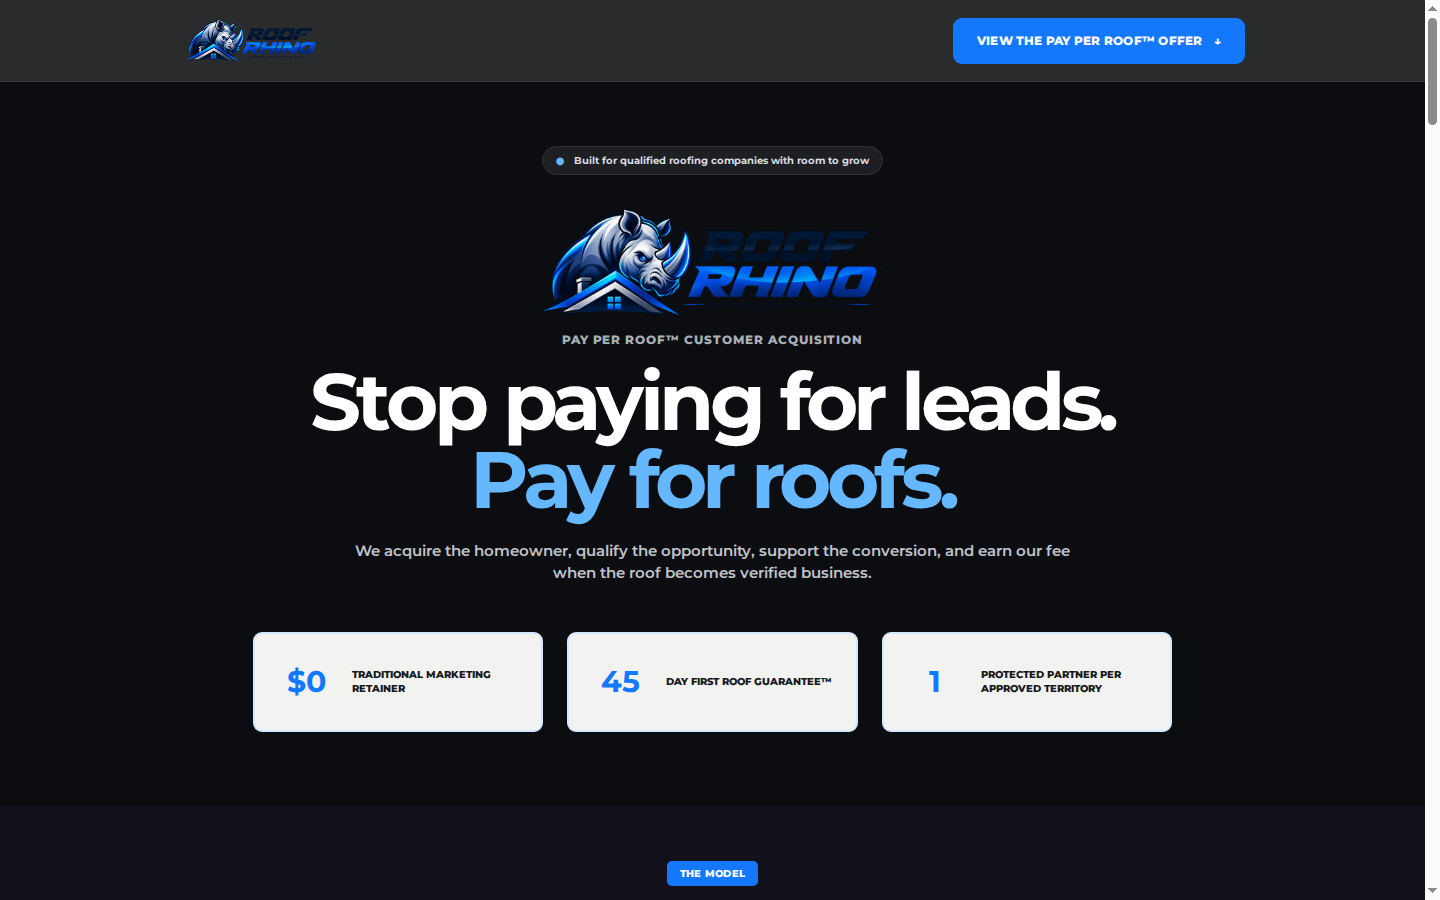
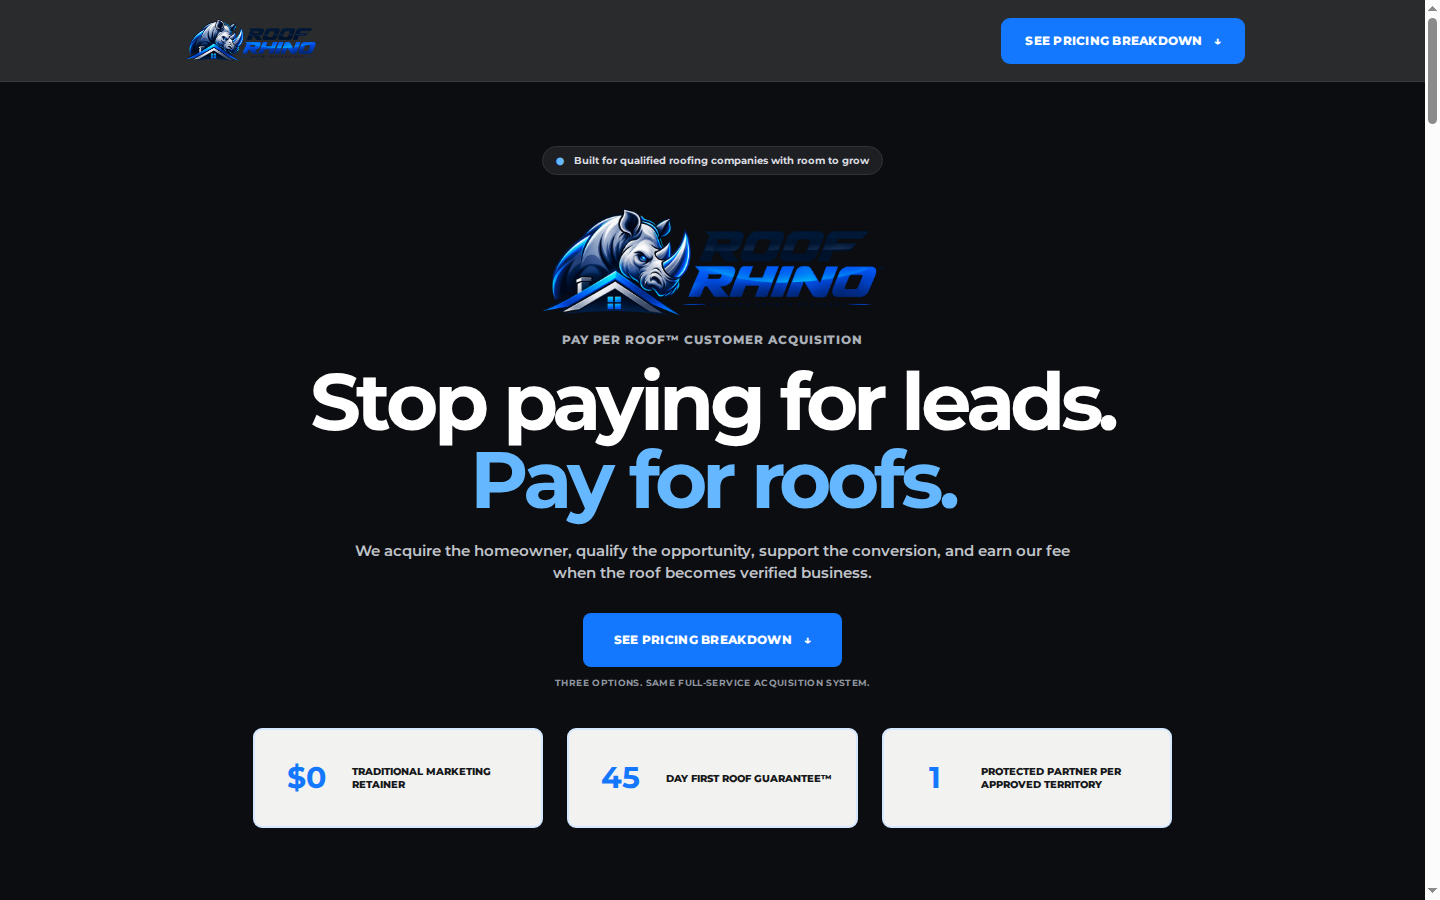
Add prominent pricing breakdown CTA

Changed region(s): [[0.1562, 0.6533, 0.8125, 0.9956], [0.6562, 0.0, 0.8438, 0.0933]]

diff --git a/sales/styles.css b/sales/styles.css
@@ -70,7 +70,12 @@ button:focus-visible, a:focus-visible { outline: 3px solid var(--blue-light); ou
 .hero h1 { margin-bottom: 20px; font-size: clamp(44px, 7.2vw, 80px); line-height: .98; letter-spacing: -.055em; }
 .hero h1 em { color: var(--blue-light); font-style: normal; }
 .hero__sub { max-width: 730px; margin: 0 auto; color: #c0c4ca; font-size: 15px; font-weight: 600; }
-.hero-stats { margin-top: 47px; display: grid; grid-template-columns: repeat(3, 1fr); gap: 24px; }
+.hero-pricing-button { min-height: 54px; margin-top: 28px; padding: 0 31px; color: var(--white); background: var(--blue); border: 0; border-radius: 8px; cursor: pointer; font-size: 12px; font-weight: 800; text-transform: uppercase; letter-spacing: .025em; transition: background .18s ease, transform .18s ease; }
+.hero-pricing-button:hover { background: #0568df; transform: translateY(-1px); }
+.hero-pricing-button span { margin-left: 9px; display: inline-block; transition: transform .25s ease; }
+.hero-pricing-button[aria-expanded="true"] span { transform: rotate(180deg); }
+.hero-pricing-note { margin: 9px 0 0; color: #8f969f; font-size: 9px; font-weight: 700; text-transform: uppercase; letter-spacing: .04em; }
+.hero-stats { margin-top: 39px; display: grid; grid-template-columns: repeat(3, 1fr); gap: 24px; }
 .hero-stats div { min-height: 100px; padding: 19px; display: grid; grid-template-columns: auto 1fr; gap: 13px; align-items: center; text-align: left; color: var(--ink); background: var(--paper); border: 2px solid #d5e8ff; border-radius: 9px; }
 .hero-stats strong { min-width: 65px; color: var(--blue); font-size: 30px; line-height: 1; text-align: center; }
 .hero-stats span { font-size: 10px; font-weight: 800; line-height: 1.35; text-transform: uppercase; }
@@ -216,6 +221,7 @@ dialog small { margin-top: 13px; display: block; color: #858c96; font-size: 8px;
   .hero__logo { height: 102px; }
   .hero h1 { font-size: 45px; }
   .hero__sub { font-size: 12px; }
+  .hero-pricing-button { width: 100%; min-height: 52px; margin-top: 23px; }
   .hero-stats div { min-height: 82px; }
   .formula { padding: 45px 0 42px; }
   .formula h2, .framework-banner h2, .step h2, .ownership-panel h2, .outcomes h2, .final-cta h2 { font-size: 31px; }

diff --git a/sales/script.js b/sales/script.js
@@ -1,21 +1,25 @@
-const offerButton = document.querySelector("[data-toggle-offer]");
+const pricingButtons = document.querySelectorAll("[data-toggle-pricing]");
 const pricingDrawer = document.getElementById("pricing-drawer");
 const underwritingDialog = document.getElementById("underwriting-dialog");
 const copyChecklistButton = document.getElementById("copy-checklist");
 
-offerButton.addEventListener("click", () => {
-  const willOpen = offerButton.getAttribute("aria-expanded") !== "true";
+pricingButtons.forEach((button) => {
+  button.addEventListener("click", () => {
+    const willOpen = pricingDrawer.getAttribute("aria-hidden") === "true";
 
-  offerButton.setAttribute("aria-expanded", String(willOpen));
-  pricingDrawer.setAttribute("aria-hidden", String(!willOpen));
-  pricingDrawer.classList.toggle("is-open", willOpen);
+    pricingButtons.forEach((pricingButton) => {
+      pricingButton.setAttribute("aria-expanded", String(willOpen));
+    });
+    pricingDrawer.setAttribute("aria-hidden", String(!willOpen));
+    pricingDrawer.classList.toggle("is-open", willOpen);
 
-  if (willOpen) {
-    pricingDrawer.removeAttribute("inert");
-    window.setTimeout(() => pricingDrawer.scrollIntoView({ behavior: "smooth", block: "start" }), 180);
-  } else {
-    pricingDrawer.setAttribute("inert", "");
-  }
+    if (willOpen) {
+      pricingDrawer.removeAttribute("inert");
+      window.setTimeout(() => pricingDrawer.scrollIntoView({ behavior: "smooth", block: "start" }), 180);
+    } else {
+      pricingDrawer.setAttribute("inert", "");
+    }
+  });
 });
 
 document.querySelectorAll("[data-open-underwriting]").forEach((button) => {

diff --git a/sales/index.html b/sales/index.html
@@ -18,8 +18,8 @@
       <a href="#top" class="topbar__brand" aria-label="Roof Rhino sales page home">
         <img src="../assets/roof-rhino-wordmark.png" alt="Roof Rhino — Roofing Growth Partners">
       </a>
-      <button class="offer-button" type="button" data-toggle-offer aria-expanded="false" aria-controls="pricing-drawer">
-        View the Pay Per Roof™ offer <span aria-hidden="true">↓</span>
+      <button class="offer-button" type="button" data-toggle-pricing aria-expanded="false" aria-controls="pricing-drawer">
+        See pricing breakdown <span aria-hidden="true">↓</span>
       </button>
     </header>
 
@@ -99,6 +99,11 @@
           <p class="hero__kicker">Pay Per Roof™ customer acquisition</p>
           <h1>Stop paying for leads.<br><em>Pay for roofs.</em></h1>
           <p class="hero__sub">We acquire the homeowner, qualify the opportunity, support the conversion, and earn our fee when the roof becomes verified business.</p>
+
+          <button class="hero-pricing-button" type="button" data-toggle-pricing aria-expanded="false" aria-controls="pricing-drawer">
+            See pricing breakdown <span aria-hidden="true">↓</span>
+          </button>
+          <p class="hero-pricing-note">Three options. Same full-service acquisition system.</p>
 
           <div class="hero-stats">
             <div><strong>$0</strong><span>Traditional marketing retainer</span></div>
